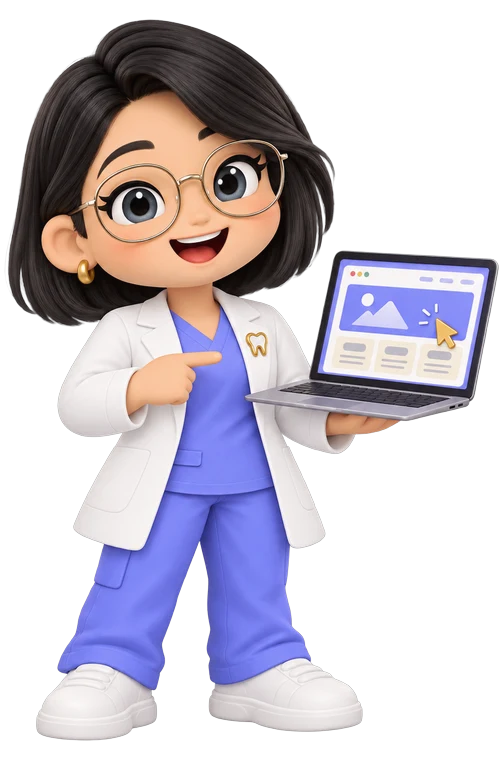
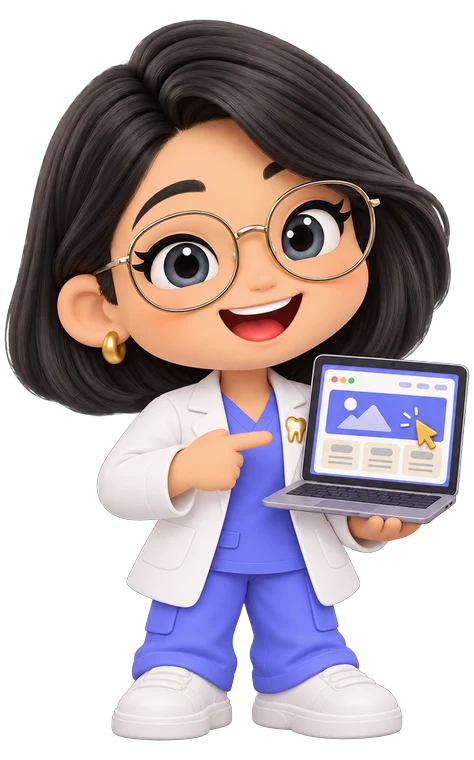
Editor e Web Designer na proporção dos outros agentes (arte nova)
Claude-Session: https://claude.ai/code/session_01GAeTvF2gt3mTsjeBLyqBXq

diff --git a/src/pages/agentes/comum.ts b/src/pages/agentes/comum.ts
@@ -32,7 +32,7 @@ export type AgenteCatalogo = { id: string; nome: string; papel: string; descrica
 export const CATALOGO: AgenteCatalogo[] = [
   { id: 'marketing', nome: 'Marketing', papel: 'Conteúdo e campanhas', escopo: 'ambos', cor: '#a46ee6', foto: '/agentes/marketing.webp?v=4', avatar: '/agentes/marketing-avatar.webp?v=1', icone: 'grafico', trabalhando: 'montando a semana de conteúdo',
     descricao: 'Monta a semana de conteúdo do Instagram (posts, reels, stories e legendas) com o que a empresa vende agora. Nada é publicado sozinho: você aprova, copia e posta.' },
-  { id: 'editor', nome: 'Editor de Vídeo', papel: 'Edição de reels e vídeos', escopo: 'ambos', cor: '#f07f3c', foto: '/agentes/editor.webp?v=2', avatar: '/agentes/editor-avatar.webp?v=1', icone: 'video', trabalhando: 'editando vídeo',
+  { id: 'editor', nome: 'Editor de Vídeo', papel: 'Edição de reels e vídeos', escopo: 'ambos', cor: '#f07f3c', foto: '/agentes/editor.webp?v=3', avatar: '/agentes/editor-avatar.webp?v=1', icone: 'video', trabalhando: 'editando vídeo',
     descricao: 'Recebe o vídeo gravado, corta as pausas e as tomadas erradas pelo roteiro, coloca legenda, textos na tela e zoom, e entrega o vídeo pronto para postar. O vídeo fica no seu computador: nada é guardado no sistema.' },
   { id: 'atendimento', nome: 'Atendimento', papel: 'Conversas e relacionamento', escopo: 'ambos', cor: '#3f7df0', foto: '/agentes/atendimento.webp?v=5', avatar: '/agentes/atendimento-avatar.webp?v=2', icone: 'whats', trabalhando: 'respondendo leads',
     descricao: 'Responde o lead novo nas Conversas do Atendimento, tira dúvidas com o material da empresa e passa para a vendedora quando a pessoa quer comprar ou pede para falar com alguém. Entra quando o WhatsApp estiver ligado.' },
@@ -48,7 +48,7 @@ export const CATALOGO: AgenteCatalogo[] = [
     descricao: 'Acompanha o aluno do pagamento ao presencial: lembra a turma, a data e o que levar, pergunta como foi e chama de volta quem sumiu da plataforma.' },
   { id: 'recepcao', nome: 'Recepção', papel: 'Agenda e retornos', escopo: 'clinical', cor: '#c9ccd4', foto: '/agentes/recepcao.webp?v=4', avatar: '/agentes/recepcao-avatar.webp?v=1', icone: 'agenda', trabalhando: 'confirmando consultas',
     descricao: 'Confirma consulta, remarca e chama o paciente na hora do retorno pelo WhatsApp da clínica.' },
-  { id: 'web', nome: 'Web Designer', papel: 'Páginas, sites e domínios', escopo: 'ambos', cor: '#7b7ff0', foto: '/agentes/web.webp?v=2', avatar: '/agentes/web-avatar.webp?v=1', icone: 'globo', trabalhando: 'ajustando a página',
+  { id: 'web', nome: 'Web Designer', papel: 'Páginas, sites e domínios', escopo: 'ambos', cor: '#7b7ff0', foto: '/agentes/web.webp?v=3', avatar: '/agentes/web-avatar.webp?v=1', icone: 'globo', trabalhando: 'ajustando a página',
     descricao: 'Cria e ajusta páginas de venda e sites com a oferta e a marca da empresa, publica no ar e cuida do domínio, do DNS e do rastreamento das páginas.' },
 ]
 export const visualDe = (id: string) => CATALOGO.find((a) => a.id === id) ?? { id, nome: id, papel: '', descricao: '', escopo: 'ambos' as Escopo, cor: '#c9a45c', foto: '', icone: 'info', trabalhando: 'trabalhando' }
